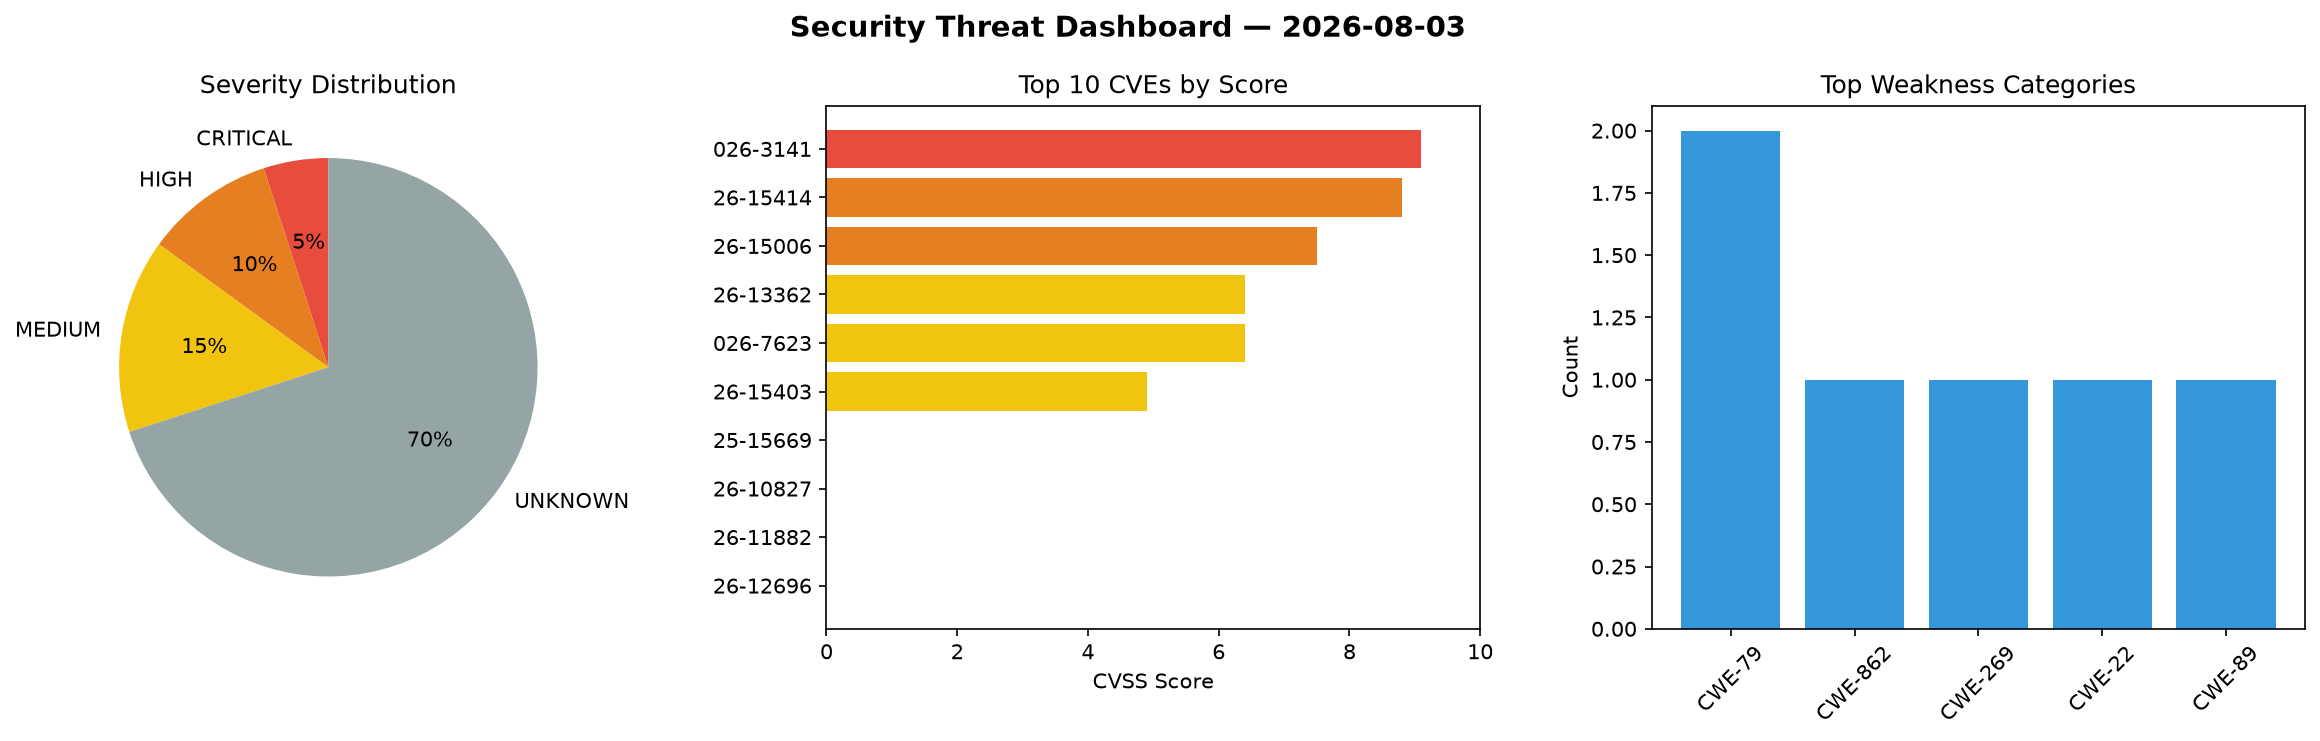
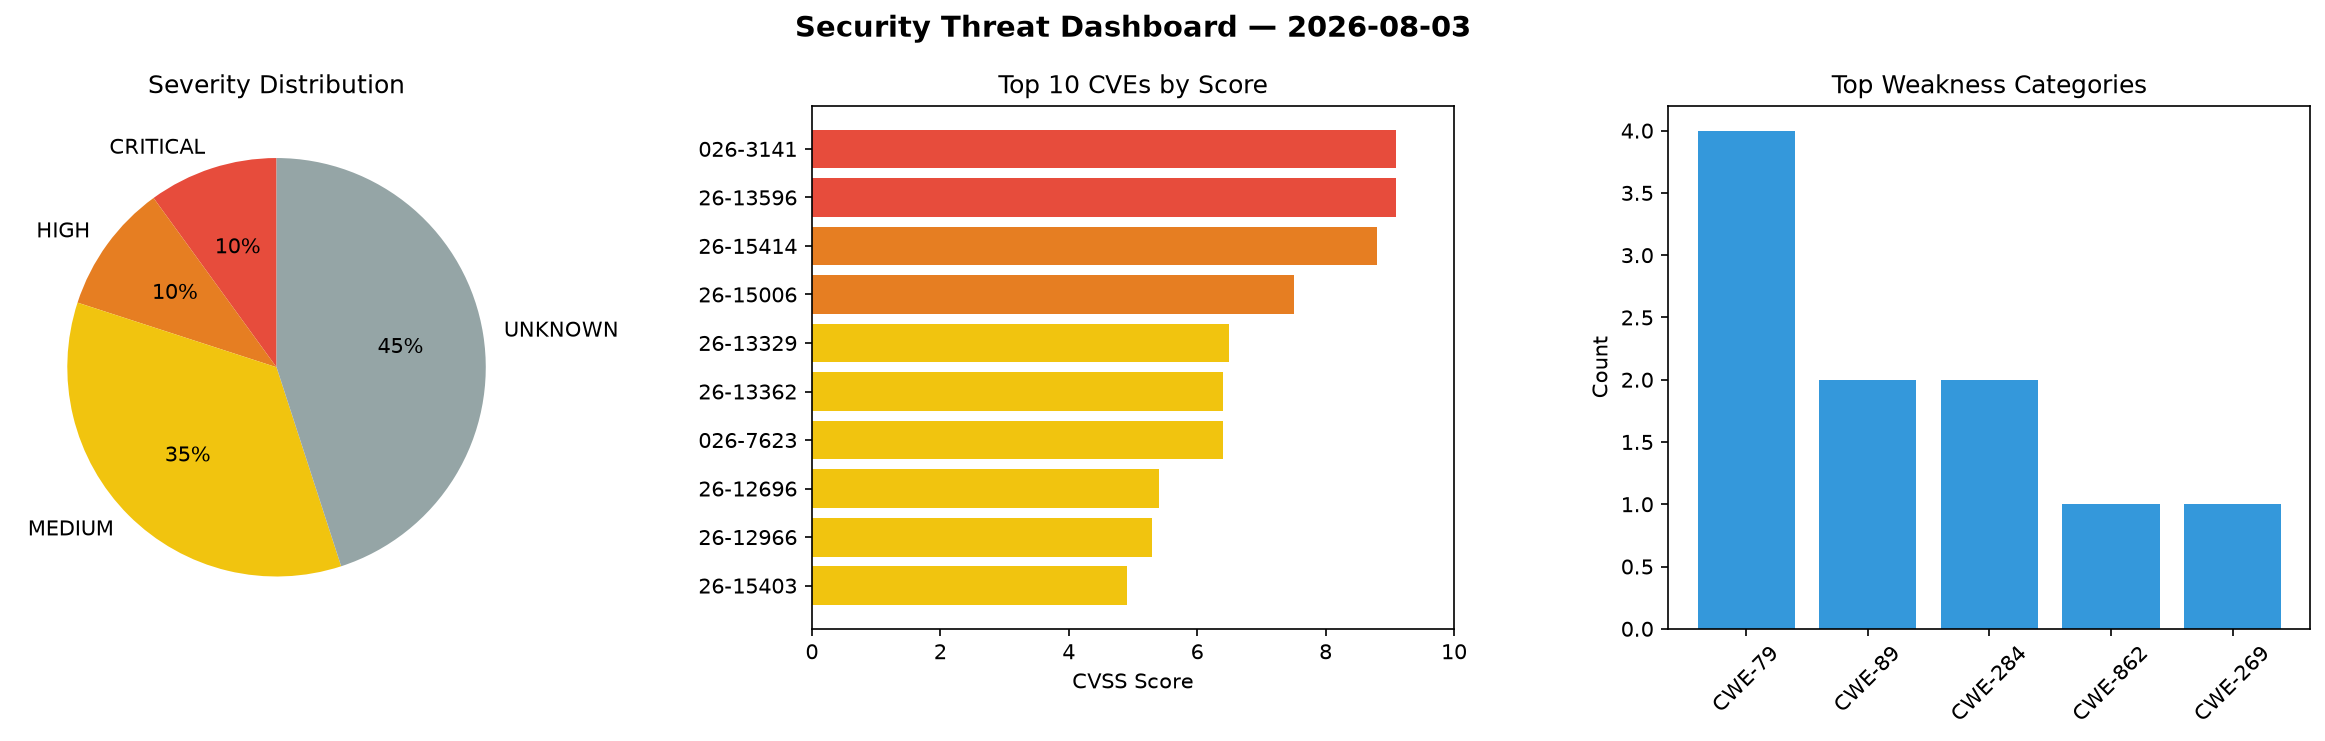
daily-experiments: security scan 2026-08-03T21:36

diff --git a/logs/2026-08-03.md b/logs/2026-08-03.md
@@ -1,6 +1,6 @@
 # Security Scan Report — 2026-08-03
 
-**Scan ID:** `aa2fadadaf` | **CVEs:** 20 | **Threat Index:** 120.7
+**Scan ID:** `2c8b464762` | **CVEs:** 20 | **Threat Index:** 201.1
 
 ![Dashboard](2026-08-03_dashboard.png)
 
@@ -10,47 +10,47 @@
 
 | Metric | Value |
 |--------|-------|
-| Threat Index | 120.7 |
-| Critical CVEs | 1 |
-| CRITICAL | 1 |
+| Threat Index | 201.1 |
+| Critical CVEs | 2 |
+| CRITICAL | 2 |
 | HIGH | 2 |
-| MEDIUM | 3 |
-| UNKNOWN | 14 |
+| MEDIUM | 7 |
+| UNKNOWN | 9 |
 
 ## Delta vs Yesterday
 
 | Metric | Today | Yesterday | Change |
 |--------|-------|-----------|--------|
 | total_cves | 20 | 20 | ➡ 0.0% |
-| threat_index | 120.7 | 206.1 | 📉 -41.4% |
-| critical_count | 1 | 1 | ➡ 0.0% |
+| threat_index | 201.1 | 206.1 | 📉 -2.4% |
+| critical_count | 2 | 1 | 📈 100.0% |
 
 ## Top Weakness Categories
 
 | CWE | Count |
 |-----|-------|
-| CWE-79 | 2 |
+| CWE-79 | 4 |
+| CWE-89 | 2 |
+| CWE-284 | 2 |
 | CWE-862 | 1 |
 | CWE-269 | 1 |
-| CWE-22 | 1 |
-| CWE-89 | 1 |
 
 ## CVE Details
 
 | CVE ID | Score | Severity | Description |
 |--------|-------|----------|-------------|
 | CVE-2026-3141 | 9.1 | CRITICAL | The FormGent plugin for WordPress is vulnerable to unauthorized arbitrary file d... |
+| CVE-2026-13596 | 9.1 | CRITICAL | The Participants Database WordPress plugin before 2.7.8.4 does not properly sani... |
 | CVE-2026-15414 | 8.8 | HIGH | The Subscriptions for WooCommerce plugin for WordPress is vulnerable to Privileg... |
 | CVE-2026-15006 | 7.5 | HIGH | The Bit integrations – Form Integration, Webhook, Spreadsheets, CRM, LMS & Email... |
+| CVE-2026-13329 | 6.5 | MEDIUM | The Buckaroo Woocommerce Payments Plugin WordPress plugin before 4.9.0 does not ... |
 | CVE-2026-13362 | 6.4 | MEDIUM | The SendPulse Email Marketing Newsletter plugin for WordPress is vulnerable to S... |
 | CVE-2026-7623 | 6.4 | MEDIUM | The SureForms – Contact Form, Payment Form & Other Custom Form Builder plugin fo... |
+| CVE-2026-12696 | 5.4 | MEDIUM | The wpForo Forum WordPress plugin before 3.1.2 does not sanitize and escape a us... |
+| CVE-2026-12966 | 5.3 | MEDIUM | The Direct Payments for WooCommerce  WordPress plugin before 2.5.3 does not veri... |
 | CVE-2026-15403 | 4.9 | MEDIUM | The Pinpoint Booking System – Version 2 plugin for WordPress is vulnerable to bl... |
-| CVE-2025-15669 | 0.0 | UNKNOWN | The Bit Form  WordPress plugin before 3.1.4 does not sanitise one of its convers... |
+| CVE-2025-15669 | 4.8 | MEDIUM | The Bit Form  WordPress plugin before 3.1.4 does not sanitise one of its convers... |
 | CVE-2026-10827 | 0.0 | UNKNOWN | The Spectra Legacy  WordPress plugin before 2.20.0 does not validate or escape s... |
 | CVE-2026-11882 | 0.0 | UNKNOWN | The Builderall for WordPress plugin before 3.0.2 does not bind the state value o... |
-| CVE-2026-12696 | 0.0 | UNKNOWN | The wpForo Forum WordPress plugin before 3.1.2 does not sanitize and escape a us... |
-| CVE-2026-12966 | 0.0 | UNKNOWN | The Direct Payments for WooCommerce  WordPress plugin before 2.5.3 does not veri... |
 | CVE-2026-13157 | 0.0 | UNKNOWN | The  Demo Import WordPress plugin through 1.1.3 does not validate the type of fi... |
 | CVE-2026-13158 | 0.0 | UNKNOWN | The Everest Toolkit WordPress plugin through 1.2.3 does not validate the type of... |
-| CVE-2026-13329 | 0.0 | UNKNOWN | The Buckaroo Woocommerce Payments Plugin WordPress plugin before 4.9.0 does not ... |
-| CVE-2026-13596 | 0.0 | UNKNOWN | The Participants Database WordPress plugin before 2.7.8.4 does not properly sani... |
